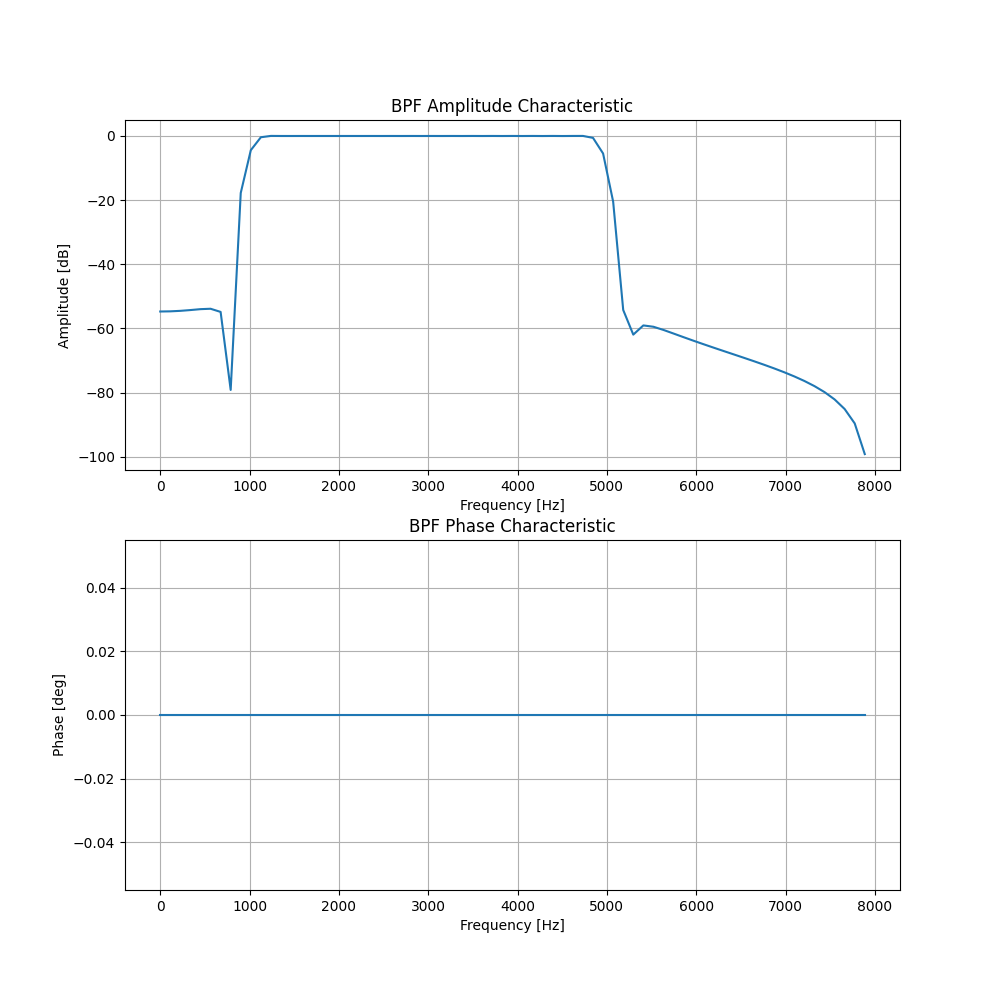
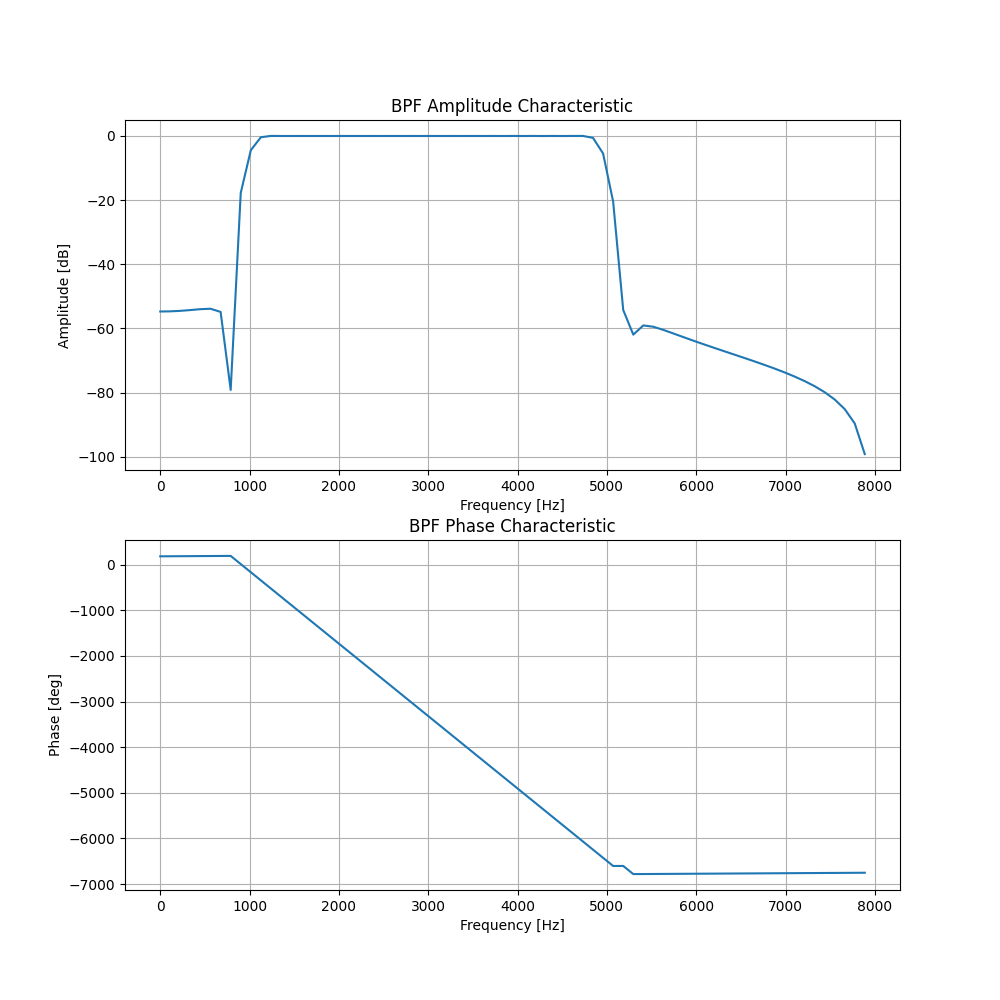
Phase Error Fixed

diff --git a/ex2/m_raditya_g/main.py b/ex2/m_raditya_g/main.py
@@ -74,7 +74,7 @@ def main():
     filtered_data = conv(audio, bpf)
 
     # BPF Filter amplitude and phase
-    bpf_fft = abs(np.fft.fft(bpf))
+    bpf_fft = np.fft.fft(bpf)
     amp = 20*np.log10(bpf_fft)
     phase = np.unwrap(np.angle(bpf_fft)) * 180/np.pi
     frequency_lab = np.arange(0, samplerate/2, (samplerate//2)/(n//2+1))
